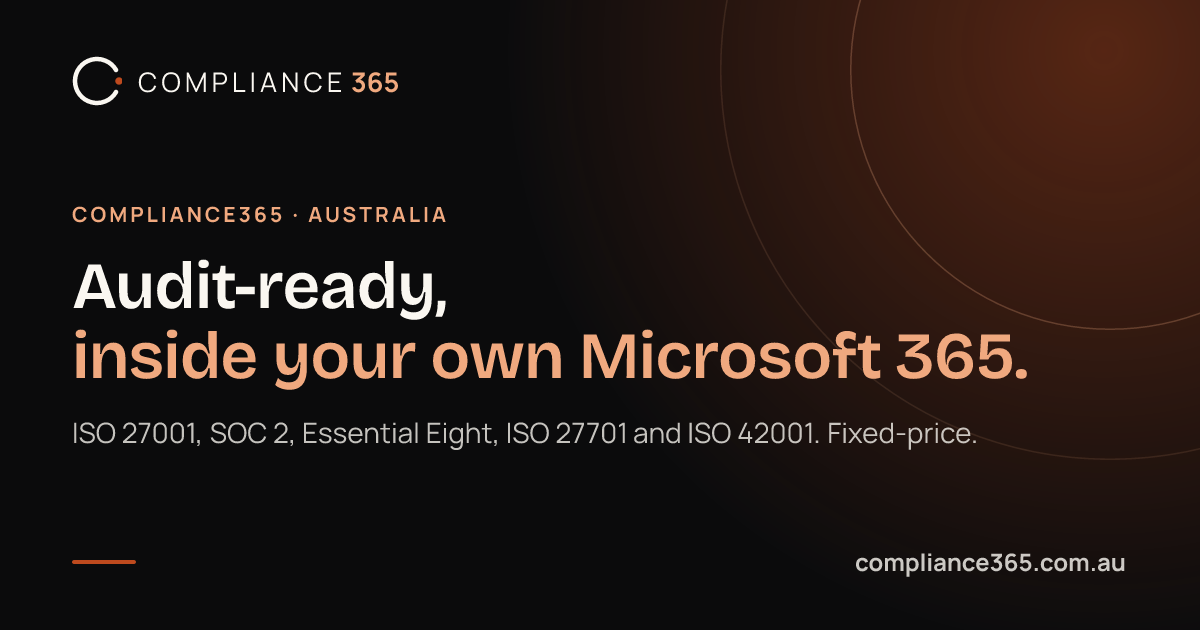
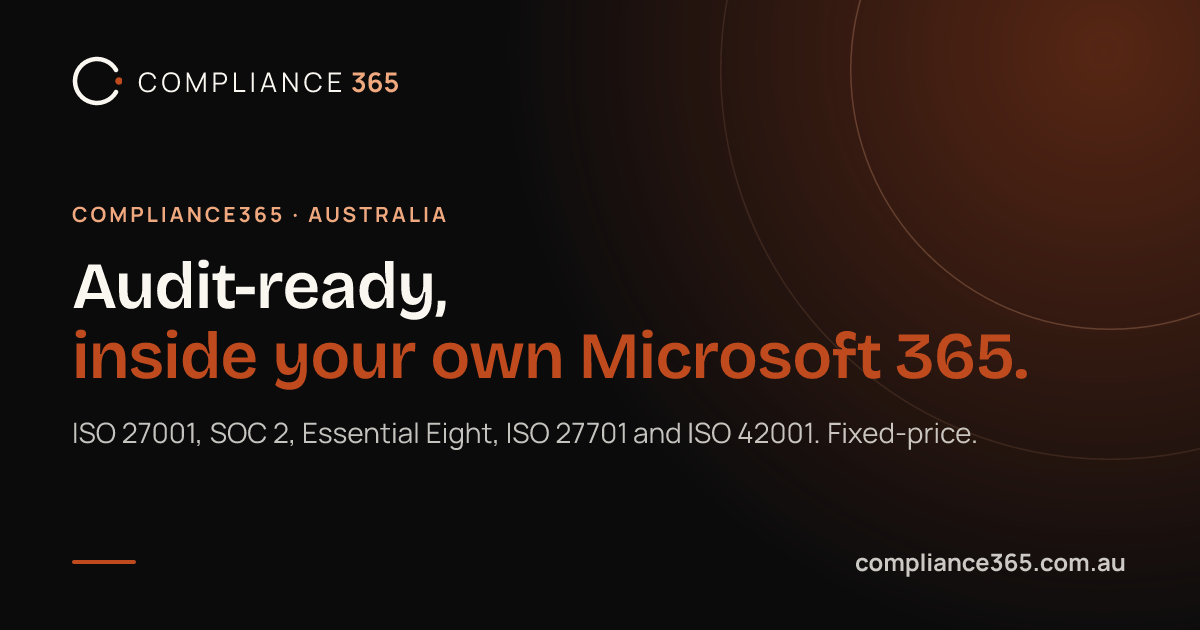
Link preview cards: headline accent in the full brand orange
The second headline line on the home and Checkpoint cards now uses
#BE4A1E (3.92:1 on #0B0B0C, above the 3:1 large-text floor at 66px).
The small eyebrow and the "365" keep the pale orange for legibility.
og-default.png regenerated from the new home card.

Claude-Session: https://claude.ai/code/session_01TVzp1ehYZsXt4Qxu68YE4J

Changed region(s): [[0.0617, 0.5127, 0.8633, 0.6333]]

diff --git a/src/pages/og/[slug].png.ts b/src/pages/og/[slug].png.ts
@@ -25,7 +25,7 @@ const SERVICE_PAGES = [
   { slug: 'og-rffr',     eyebrow: 'RFFR · ISM SoA · DEWR',           title: 'Right Fit For Risk (RFFR)',      description: 'The full ISM Statement of Applicability on an ISO 27001 ISMS with Essential Eight — assessed from your tenant.' },
   { slug: 'og-nist',     eyebrow: 'NIST CSF 2.0 · AUSTRALIA',        title: 'NIST CSF 2.0 Consulting',        description: 'Current & Target Profiles, prioritised roadmap, measurable KPIs. Board-ready.' },
   { slug: 'og-home',     eyebrow: 'COMPLIANCE365 · AUSTRALIA',       title: 'Audit-ready, inside your own Microsoft 365.', accentFrom: 13, description: 'ISO 27001, SOC 2, Essential Eight, ISO 27701 and ISO 42001. Fixed-price.' },
-  { slug: 'og-checkpoint', eyebrow: 'CHECKPOINT · COMPLIANCE CONSOLE', title: 'The compliance console that never leaves your tenant.', description: 'Posture scans, risk register, live SoA and audit reports, all in your own SharePoint.' },
+  { slug: 'og-checkpoint', eyebrow: 'CHECKPOINT · COMPLIANCE CONSOLE', title: 'The compliance console that never leaves your tenant.', accentFrom: 23, description: 'Posture scans, risk register, live SoA and audit reports, all in your own SharePoint.' },
   { slug: 'og-about',    eyebrow: 'ABOUT · COMPLIANCE365',           title: 'Australian Compliance Specialists', description: 'Senior-led. Fixed-price. Evidence-backed. Based in Brisbane, serving organisations nationally.' },
 ];
 
@@ -50,9 +50,10 @@ export const GET: APIRoute = async ({ props }) => {
   const { eyebrow, title, description, accentFrom } = props as { eyebrow: string; title: string; description: string; accentFrom?: number };
   const t = clamp(title, 68);
   /* The headline: cream, with the part after accentFrom on its own line in
-     pale orange (the brand's text orange on dark, as the "365" in the header). */
+     the full brand orange. #BE4A1E is 3.92:1 on #0B0B0C, which clears the
+     3:1 large-text floor at 66px; the small eyebrow and "365" stay pale. */
   const head = accentFrom && accentFrom < t.length
-    ? [{ type: 'div', props: { children: t.slice(0, accentFrom).trim() } }, { type: 'div', props: { style: { color: '#F0A97F' }, children: t.slice(accentFrom).trim() } }]
+    ? [{ type: 'div', props: { children: t.slice(0, accentFrom).trim() } }, { type: 'div', props: { style: { color: '#BE4A1E' }, children: t.slice(accentFrom).trim() } }]
     : t;
   const ring = (size: number, right: number, top: number, alpha: number) => ({ type: 'div', props: { style: { position: 'absolute', width: size, height: size, right, top, borderRadius: size, border: `1.5px solid rgba(240,169,127,${alpha})` } } });
 
